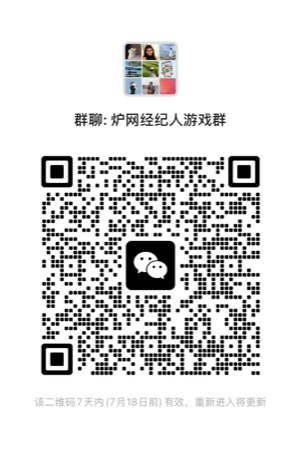
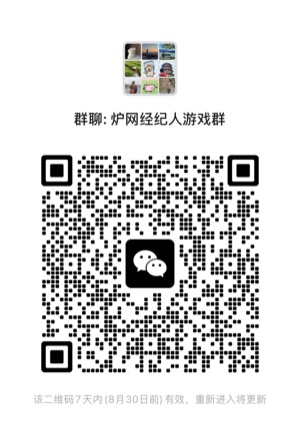
Pause manager market and switch daily predictions

diff --git a/index.html b/index.html
@@ -4773,7 +4773,8 @@ function renderManagerDemo(force){
           ?managerStationName()+'换人窗口：'+transferWindowLabel+crossTourNotice
           :(allTransferAfter?managerStationName()+'换人窗口已结束。':managerStationName()+'已截止提交，请等待换人窗口。')))
       :managerStationName()+'开售时间待确认。');
-  var wechat='<div class="manager-wechat-card"><div class="manager-wechat-copy"><div class="manager-wechat-alert">'+esc(stationNotice)+'</div><div class="manager-wechat-line main">本游戏每周跟随巡回赛历开新赛事</div><div class="manager-wechat-line">如需 <span class="manager-wechat-em">开售提醒</span>、<span class="manager-wechat-em">换人窗口提醒</span> 请扫码进本游戏官方群</div></div><img class="manager-wechat-qr" src="assets/manager/wechat-group-qr.webp?v=20260813-1" alt="微信群二维码" width="92" height="122" loading="eager" decoding="async" fetchpriority="high"></div>';
+  if(MANAGER_ACTIVE_EVENTS&&MANAGER_ACTIVE_EVENTS.announcement)stationNotice=MANAGER_ACTIVE_EVENTS.announcement;
+  var wechat='<div class="manager-wechat-card"><div class="manager-wechat-copy"><div class="manager-wechat-alert">'+esc(stationNotice)+'</div><div class="manager-wechat-line main">本游戏每周跟随巡回赛历开新赛事</div><div class="manager-wechat-line">如需 <span class="manager-wechat-em">开售提醒</span>、<span class="manager-wechat-em">换人窗口提醒</span> 请扫码进本游戏官方群</div></div><img class="manager-wechat-qr" src="assets/manager/wechat-group-qr.webp?v=20260823-1" alt="微信群二维码" width="92" height="122" loading="eager" decoding="async" fetchpriority="high"></div>';
   var previewPending=managerLocalSimulationMode()&&MANAGER_ACTIVE_EVENTS&&MANAGER_ACTIVE_EVENTS.status==='preview';
   var previewReady=previewPending&&MANAGER_ACTIVE_EVENTS.rules&&MANAGER_ACTIVE_EVENTS.rules.combo_design_status==='confirmed'&&submissionWindow.status!=='pending';
   var qaBanner=managerLocalSimulationMode()?'<div class="manager-note" style="margin-bottom:10px"><b>'+(managerLocalQaMode()?'本地换人测试模式：':'本地模拟提交模式：')+'</b>'+(previewPending&&!managerLocalQaMode()?(previewReady?'本站签表、排名、Elo、价格、开售时间和 Combo 已确认，可测试低保折扣与阵容提交；换人窗口仍待确认。':'本站仅供审核官方签表、排名、Elo、价格和组建草稿；开售时间、Combo 和换人窗口尚未确认。'):(managerLocalQaMode()?'提交和换人窗口均已开放；':'可以正常测试选择球员、提交、撤回和换人；'))+'这些阵容操作只保存在当前浏览器，不会写入线上 Supabase。</div>':'';
